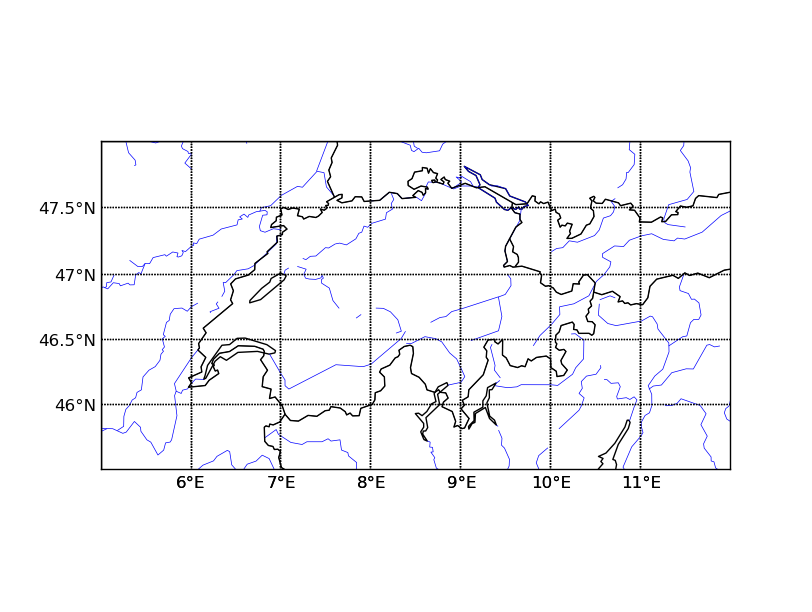
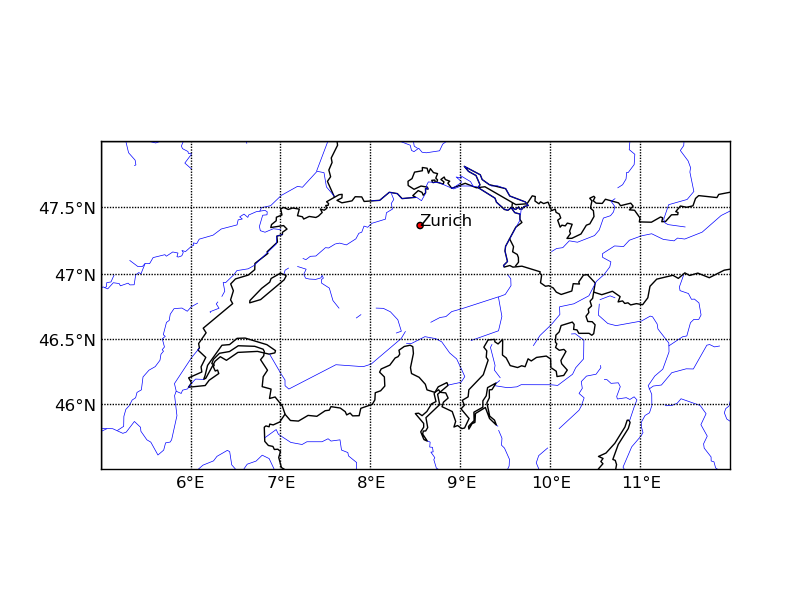
finished basemap and pyproj section

diff --git a/branches/docs/sed_2012/exercises/exercises_code.py b/branches/docs/sed_2012/exercises/exercises_code.py
@@ -1,0 +1,216 @@
+#!/usr/bin/env python
+"""
+Created on Sep 3, 2012
+
+@author: behry
+"""
+
+# 1 (a)
+# Using the modules random, sys and math write a
+# script that reads mean and standard deviation of a normal distribution from 
+# the command line and writes 100
+# normally distributed random numbers to a file.
+# Read those numbers back in and write their mean
+# and standard deviation to stdout.
+import random
+import sys
+import math
+
+mu = float(sys.argv[1])
+sigma = float(sys.argv[2])
+values = []
+for i in range(100):
+    values.append(random.normalvariate(mu, sigma))
+
+f = open('gauss_dist.txt', 'w')
+for i, e in enumerate(values):
+    print >> f, "%3d %.4f" % (i, e)
+f.close()
+
+values = []
+f = open('gauss_dist.txt')
+for _l in f.readlines():
+    a = _l.split()
+    cnt = int(a[0])
+    val = float(a[1])
+    values.append(val)
+
+mean = sum(values) / len(values)
+std = math.sqrt(sum([(x - mean) ** 2 for x in values]) / len(values))
+print "mean: ", mean, "standard deviation: ", std
+
+
+# 1 (b)
+# Use the text of this exercise and count the number of occurences for
+# every word using collections.defaultdict. 
+from collections import defaultdict
+
+text = """Use the text of this exercise and count the number of occurences for
+every word using collections.defaultdict."""
+words = text.split()
+d = defaultdict(int)
+for _w in words:
+    d[_w] += 1
+print d
+
+
+# 2 (a)
+# Rewrite your last script into a class that requires
+# the standard deviation as a variable in its constructor
+# and which has a method that adds Gaussian noise to an
+# input trace. Generate a sine wave, add noise to it and plot
+# both traces using the matplotlib package.
+import matplotlib.pyplot as plt
+
+class Gauss:
+
+    def __init__(self, sigma):
+        self.sigma = sigma
+
+    def add_gauss(self, values):
+        nval = []
+        for i in values:
+            ns = random.normalvariate(i, self.sigma)
+            nval.append(ns)
+        return nval
+
+# make a sine curve and add some noise to it
+f = 3.
+trace = [math.sin(2 * math.pi * f * t * 0.001) for t in range(0, 1001)]
+noise = Gauss(0.1)
+noisy_trace = noise.add_gauss(trace)
+plt.plot(noisy_trace)
+plt.plot(trace, 'r')
+plt.show()
+
+# 2 (b)
+# Write a function that takes a list of program 
+# names as input and returns a dictionary with 
+# the programs' complete path on the current computer
+# system as values. Programs that are not found should
+# have the value None.
+
+import os
+
+def findprograms(proglist):
+    outdict = {}
+    dirlist = os.environ['PATH'].split(":")
+    for prog in proglist:
+        for dir in dirlist:
+            fname = os.path.join(dir, prog)
+            if os.path.isfile(fname):
+                outdict[prog] = fname
+        if prog not in outdict.keys():
+            outdict[prog] = None
+    return outdict
+
+
+print findprograms(['psxy', 'emacs', 'blub', 'blub'])
+
+import numpy as np
+import sys
+
+# 3 (a)
+# Define a 3 x 3 matrix, e.g. A = np.matrix('1 2 3; 4 5 6; 7 8 9'). 
+# Extract the 2 x 2 matrix in the lower right corner of the matrix 
+# A as a slice. Add this slice to another 2 x 2 matrix, multiply 
+# the result by a 2 x 2 matrix and insert this final result in 
+# the upper left corner of the original matrix A.
+# Control the result by hand calculation. 
+A = np.matrix('1 2 3; 4 5 6; 7 8 9')
+c = np.dot(A[1:, 1:] + np.array([[-4, -5], [-7, -8]]), np.array([[1, 0], [0, 1]]))
+A[0:2, 0:2] = c
+print A
+
+# 3 (b)
+# Take the original matrix A from the previous exercise and
+# replace all values greater than 1 but smaller than 5 with 0 using the
+# numpy function 'where'.
+A = np.matrix('1 2 3; 4 5 6; 7 8 9')
+print np.where((A > 1) & (A < 5), 0, A)
+
+# 3 (c)
+# Redo exercise 1 (a) using only numpy functions.
+mu = float(sys.argv[1])
+sigma = float(sys.argv[2])
+values = np.random.randn(100) * sigma + mu
+np.savetxt('gauss_dist.txt', values, fmt='%.4f')
+values = np.loadtxt('gauss_dist.txt')
+mean = values.mean()
+std = values.std()
+print "mean: ", mean, "standard deviation: ", std
+
+# 3 (d)
+# If $x_i = x_1, ..., x_n$ are uniformly distributed numbers
+# between $a$ and $b$, then $\frac{b-a}{n}\sum_{i=0}^n f(x_i)$ is an
+# approximation to the integral $\int_a^b f(x)dx$ (Monte Carlo integration).
+# Implement this menthod using the numpy.random module for $f(x) =
+# sin(x)$ and compare the result with any of the integration methods from
+# scipy.integrate and the analytical result.
+
+import scipy.integrate
+
+a = 0
+b = np.pi
+n = 1000
+
+x = np.linspace(a, b, n)
+y = np.sin(x)
+print scipy.integrate.trapz(y, x)
+
+xi = (b - a) * np.random.random_sample(n) + a
+fi = np.sin(xi)
+print (b - a) / n * fi.sum()
+
+# 4 (a)
+# Plot the following two stations as red triangles on a map and calculate
+# their distance, azimuth and back-azimuth for a spherical earth.
+# SULZ: lat=47.52748, lon=8.11153
+# SALO: lat=45.6183, lon=10.5243
+from mpl_toolkits.basemap import Basemap
+import numpy as np
+import matplotlib.pyplot as plt
+import pyproj
+
+lats = [47.52748, 45.6183]
+lons = [8.11153, 10.5243]
+names = ['SULZ', 'SALO']
+m = Basemap(projection='merc', llcrnrlat=43, urcrnrlat=48, \
+            llcrnrlon=4, urcrnrlon=12, lat_ts=45, resolution='i')
+x, y = m(lons, lats)
+m.drawcountries()
+m.scatter(x, y, 100, color="r", marker="^")
+for i, name in enumerate(names):
+    plt.text(x[i], y[i], name, va='top')
+gc = pyproj.Geod(ellps='sphere')
+az, baz, dist = gc.inv(lons[0], lats[0], lons[1], lats[1])
+print "azimuth=%.2f, back-azimuth=%.2f, distance=%.2f km" % (az, baz, dist / 1000.)
+plt.show()
+
+# 4 (b)
+# Plot the real component of the spherical harmonics of order 
+# 2 and degree 5 on a sphere.
+# The modules that you will need are:
+# scipy.special (the function sph_harm)
+# numpy
+# basemap
+# matplotlib
+#
+# Note: Spherical harmonics are computed in colatitude and basemap
+# uses latitude. 
+from scipy.special import sph_harm
+
+lats = np.linspace(-90, 90, 100)
+lons = np.linspace(0, 360, 100)
+colats = 90 - lats
+X, Y = np.meshgrid(lons, colats)
+X1, Y1 = np.meshgrid(lons, lats)
+zval = sph_harm(2, 5, X * 2 * np.pi / 360., Y * np.pi / 180.)
+m = Basemap(projection='ortho', lon_0= -120, lat_0=20, resolution='l')
+m.drawparallels(np.arange(-90., 120., 30.))
+m.drawmeridians(np.arange(0., 420., 60.))
+X2, Y2 = m(X1, Y1)
+m.contourf(X2, Y2, np.real(zval), 30)
+m.colorbar()
+plt.show()
+

diff --git a/branches/docs/sed_2012/lecture4.tex b/branches/docs/sed_2012/lecture4.tex
@@ -50,11 +50,122 @@ resolution='i')
  >>> m.drawmeridians([6,7,8,9,10,11],labels=[0,0,0,1])
  >>> m.drawparallels([46,46.5,47,47.5],labels=[1,0,0,0])
  >>> m.drawrivers(color='b')
+ >>> x,y = m(8.540, 47.372)
+ >>> m.scatter(x,y,c='r',marker='o')
+ >>> plt.text(x,y,'Zurich',va='bottom')
  >>> plt.show()
 \end{verbatim}
 \end{myColorBox}
 \pause
 \begin{center}
-      \includegraphics[width=0.8\textwidth]{pix/basemap_example_2}
+      \includegraphics[width=0.7\textwidth]{pix/basemap_example_2_1}
 \end{center}
 \end{frame}
+
+\begin{frame}[fragile]
+\frametitle{Basemap}
+Plot topography from the ETOPO1 global relief model:
+\begin{myColorBox}{1.0}{}
+\begin{verbatim}
+>>> from scipy.io import netcdf
+>>> from mpl_toolkits.basemap import Basemap, cm
+m = Basemap(projection='merc', llcrnrlat= 0, 
+urcrnrlat=50, llcrnrlon=-80, urcrnrlon=50, lat_ts= 25, 
+resolution='i')
+>>> nc=netcdf.netcdf_file('ETOPO1_Ice_g_gmt4.grd')
+>>> lons = nc.variables['x'].data
+>>> lats = nc.variables['y'].data
+>>> topoin = nc.variables['z'].data
+>>> nx = int((m.xmax-m.xmin)/5000.)+1; 
+>>> ny = int((m.ymax-m.ymin)/5000.)+1
+>>> topodat = m.transform_scalar(topoin,lons,lats,nx,ny)
+>>> im = m.imshow(topodat,cm.GMT_haxby)
+>>> m.drawparallels(np.arange(0,50,20),labels=[1,0,0,0])
+>>> m.drawmeridians(np.arange(-80,50,20),labels=[0,0,0,1])
+>>> plt.show()
+\end{verbatim}
+\end{myColorBox}
+\end{frame}
+
+\begin{frame}[fragile]
+\frametitle{Basemap}
+\begin{center}
+      \includegraphics[width=1.0\textwidth]{pix/basemap_example_3}
+\end{center}
+\end{frame}
+
+\begin{frame}[fragile]
+\frametitle{Basemap}
+Plot information from shapefile 
+data from https://explore.data.gov/d/db3a-9tgn.
+\begin{myColorBox}{0.9}{}
+\begin{verbatim}
+>>> m = Basemap(projection='mill',
+llcrnrlon=-180. ,llcrnrlat=-60,
+urcrnrlon=180. ,urcrnrlat=80.)
+# assumes 'copper.shp', 'copper.shx' and 'copper.dbf'
+# are in the current working directory 
+>>> s = m.readshapefile('copper', 'copper')
+>>> x, y = zip(*m.copper)
+>>> m.drawcoastlines()
+>>> m.fillcontinents()
+>>> plt.plot(x, y, 'b.')
+>>> plt.title('World copper smelters locations')
+>>> plt.show()
+\end{verbatim}
+\end{myColorBox}
+\end{frame}
+
+\begin{frame}[fragile]
+\frametitle{Basemap}
+\begin{center}
+      \includegraphics[width=1.0\textwidth]{pix/basemap_example_4}
+\end{center}
+\end{frame}
+
+\begin{frame}
+\begin{center}
+\Huge{pyproj}
+\end{center}
+\end{frame}
+
+\begin{frame}[fragile]
+\frametitle{pyproj}
+\begin{itemize}
+  \item Pyproj provides python bindings to the PROJ4 library.
+  \item Convert from geographic (longitude,latitude)
+	to native map projection (x,y) coordinates and vice versa
+   \item Convert from one map projection coordinate system directly to another
+   \item Perform great circle computations such as determining distance, azimuth
+   and back-azimuth between two given points
+\end{itemize}
+
+Convert longitude and latitude of Zurich into UTM coordinates and back:
+ \begin{myColorBox}{0.9}{}
+\begin{verbatim}
+>>> p = pyproj.Proj(proj="utm",zone=32)
+>>> p1(8.540, 47.372)
+(465271.7360602605, 5246607.042608537)
+>>> p1(*(_),inverse=True)
+(8.54, 47.371999999999986)
+\end{verbatim}
+\end{myColorBox}
+\end{frame}
+
+\begin{frame}[fragile]
+\frametitle{pyproj}
+Great circle computation: compute azimuth, back-azimuth and distance between
+Zurich and Basel and do the inverse.
+\begin{myColorBox}{1.0}{}
+\begin{verbatim}
+>>> g = pyproj.Geod(ellps='WGS84')
+>>> az, baz, dist = g.inv(8.540, 47.372, 7.593, 47.560)
+>>> az, baz, dist
+(-73.33366215015755, 105.9685077646491, 74392.53849627372)
+>>> lon, lat, baz = g.fwd(8.540, 47.372, az, dist)
+>>> lon,lat,baz
+(7.592999999296916, 47.56000000001562, 105.96850776458967)
+\end{verbatim}
+\end{myColorBox}
+\end{frame}
+

diff --git a/branches/docs/sed_2012/lecture1.tex b/branches/docs/sed_2012/lecture1.tex
@@ -1,5 +1,21 @@
-%\section{Overview}
-%\subsection{Overview}
+\begin{frame}[fragile]
+\frametitle{Program Thursday}
+\begin{tabbing}
+\textbf{Morning}: \= Python data types, flow control, file i/o, functions,
+modules, classes, errors and exceptions, plotting \kill
+\textbf{Morning}: \= Introduction to Python data types, flow control, file i/o,
+functions,\\
+ modules, classes, errors and exceptions, plotting + exercises \\
+\\
+\textbf{Afternoon}: \= Introduction to numpy, scipy, basemap, pyproj and quakepy
++ exercises
+\\
+\\ 
+\textbf{Coffee breaks} at 10:30am and 3pm\\
+\textbf{Lunch break} from 12:00pm to 1pm\\
+\end{tabbing}
+\end{frame}
+
 \begin{frame}[fragile]
     \frametitle{Outline}
     \begin{itemize}
@@ -15,7 +31,7 @@
         \item We will:
         	\begin{itemize}
         	  \item show you how to use these in Python 
-		      \item present the import concepts when using numpy arrays
+		      \item present some important concepts when using numpy arrays
 		      \item present a few modules in numpy and scipy
 		      \item give a few examples on how to plot graphs and maps
         	\end{itemize} 
@@ -46,7 +62,6 @@ This emphasis on readability is no accident. As an object-oriented language, Pyt
     \begin{itemize}
         \item Extensive standard libraries:
         \begin{itemize}
-            \item Data Persistence
             \item Data Compression and Archiving
             \item Cryptographic Services
             \item Internet Protocols

diff --git a/branches/docs/sed_2012/sed_2012_python_introduction.tex b/branches/docs/sed_2012/sed_2012_python_introduction.tex
@@ -25,7 +25,7 @@
 %\usepackage{amssymb}
 
 \input{commands}
-%\includeonly{lecture4}
+\includeonly{lecture1}
 
 \hypersetup{pdfpagemode=FullScreen}
 \hypersetup{breaklinks=false}
